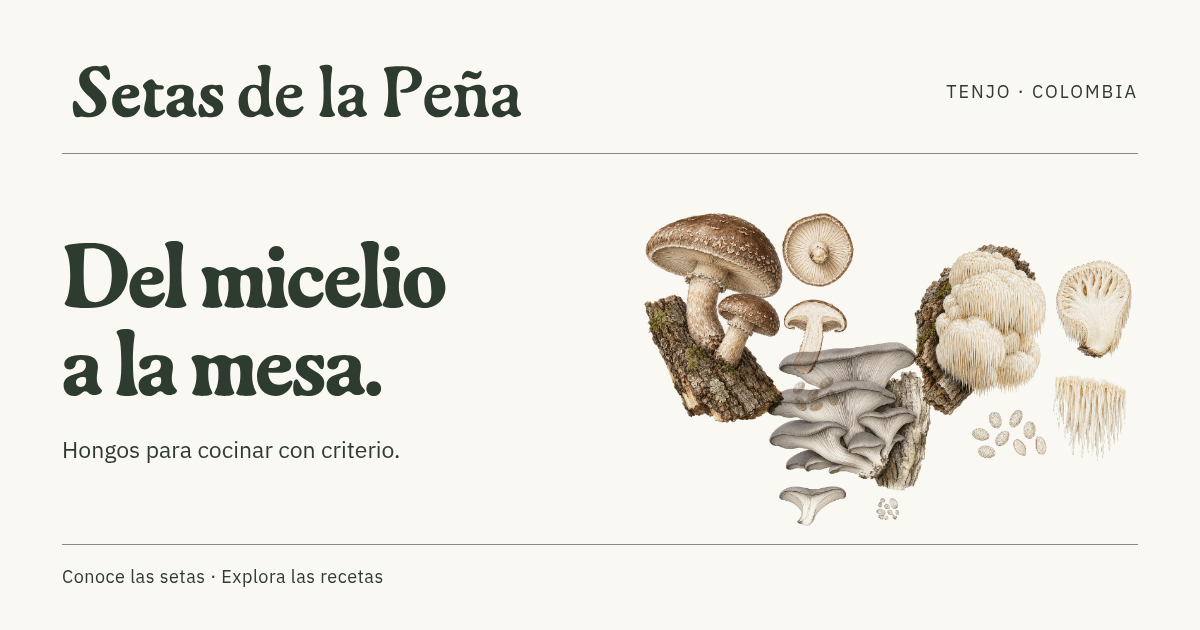
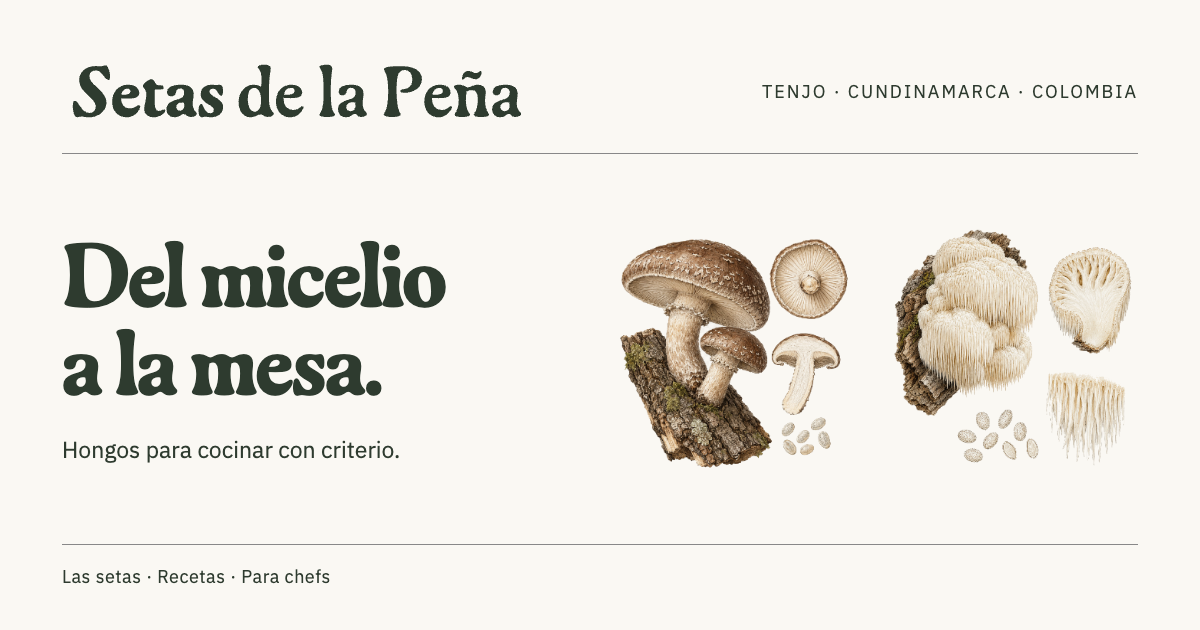
feat(web): titular «Del micelio a la mesa» y ajustes de marca en la portada
- H1 de la portada: «Del micelio a la mesa.»; la línea superior pasa al
  descriptor para no repetir el titular.
- Firma móvil a clamp(28px, 7.6vw, 30px): 186 px a 320 px, sobre el mínimo de
  180 px.
- Franja ocre con --sand-500 en lugar de --warning (token de estado).
- Imagen social: dos láminas separadas de especies de la web, sin orellana;
  pie sin imperativos.
- manual.html sin tuteo; prueba y registro de la web actualizados.

Verificado: check_public_website (55), check_public_export (56),
check_public_delivery (35), validate.py de DS-2026.

diff --git a/manual.html b/manual.html
@@ -1,4 +1,4 @@
 <!doctype html>
 <html lang="es" data-mode="archive"><head><meta charset="utf-8"><meta name="viewport" content="width=device-width, initial-scale=1"><meta name="robots" content="noindex"><title>Manual de marca · Setas de la Peña</title><link rel="stylesheet" href="08_brand/ds-2026/market.css"><link rel="stylesheet" href="website.css"></head>
 <body><a class="skip-link sdp-btn" href="#contenido">Saltar al contenido</a><header class="masthead page-width"><a class="wordmark" href="index.html">Setas <span>de la Peña</span></a><nav aria-label="Navegación principal"><a href="index.html">Web pública</a><a href="design-system.html">Sistema de diseño</a></nav></header>
-<main id="contenido" class="page-width"><section class="collection" aria-labelledby="manual-title"><p class="t-label">Marca · Guía para la web pública</p><h1 id="manual-title" class="t-species">Hongos para cocinar con criterio.</h1><p><a class="sdp-btn sdp-btn--primary" href="08_brand/ds-2026/brand-kit/index.html" data-canonical-resource="manual">Abrir el manual de marca completo ↗</a></p><p>Consulta las firmas descargables, los referentes y las aplicaciones en el kit canónico. Esta página ofrece un resumen para la web.</p><p>Del micelio a la mesa.</p><p>Conoce la seta. Imagina el plato.</p><div class="profile-columns"><article><h2 class="t-species">Tipografía y color</h2><p>Gaya para titulares y nombres de especies. IBM Plex Sans para lectura e interfaz. IBM Plex Mono para cantidades y metadatos breves.</p><p>Usa los tokens de <code>market.css</code>: papel cálido, tinta, musgo y acentos de tierra. Conserva contraste, foco visible y controles de al menos 44 px.</p><p>La licencia comercial de Gaya está pendiente de verificación.</p></article><article><h2 class="t-species">Imagen y voz</h2><p>Grabados micológicos para especies; gouache con lápiz para preparaciones. Rotula las ilustraciones. La fotografía debe documentar el producto o proceso real.</p><p>Tono cercano, preciso, culinario y útil. Explica sabor, textura y preparación antes del detalle científico.</p><p>Tenjo, Cundinamarca es el origen del proyecto. La procedencia de una cosecha requiere registros de lote.</p></article></div><div class="source-note"><h2 class="t-species">Comunicación comercial</h2><p>Publica únicamente disponibilidad, presentaciones, precios y entrega confirmados. Una consulta prepara un mensaje: no cobra ni reserva inventario.</p><p>Las tres recetas son adaptaciones pendientes de prueba en cocina; conserva fuentes y avisos.</p><p class="t-small">Esta guía resume las decisiones aprobadas para la web y el README del DS-2026. No acredita una licencia tipográfica ni valida un lote.</p></div></section></main></body></html>
+<main id="contenido" class="page-width"><section class="collection" aria-labelledby="manual-title"><p class="t-label">Marca · Guía para la web pública</p><h1 id="manual-title" class="t-species">Hongos para cocinar con criterio.</h1><p><a class="sdp-btn sdp-btn--primary" href="08_brand/ds-2026/brand-kit/index.html" data-canonical-resource="manual">Abrir el manual de marca completo ↗</a></p><p>Consulta las firmas descargables, los referentes y las aplicaciones en el kit canónico. Esta página ofrece un resumen para la web.</p><p>Del micelio a la mesa.</p><p>Conocer la seta. Imaginar el plato.</p><div class="profile-columns"><article><h2 class="t-species">Tipografía y color</h2><p>Gaya para titulares y nombres de especies. IBM Plex Sans para lectura e interfaz. IBM Plex Mono para cantidades y metadatos breves.</p><p>Usa los tokens de <code>market.css</code>: papel cálido, tinta, musgo y acentos de tierra. Conserva contraste, foco visible y controles de al menos 44 px.</p><p>La licencia comercial de Gaya está pendiente de verificación.</p></article><article><h2 class="t-species">Imagen y voz</h2><p>Grabados micológicos para especies; gouache con lápiz para preparaciones. Rotula las ilustraciones. La fotografía debe documentar el producto o proceso real.</p><p>Tono cercano, preciso, culinario y útil. Explica sabor, textura y preparación antes del detalle científico.</p><p>Tenjo, Cundinamarca es el origen del proyecto. La procedencia de una cosecha requiere registros de lote.</p></article></div><div class="source-note"><h2 class="t-species">Comunicación comercial</h2><p>Publica únicamente disponibilidad, presentaciones, precios y entrega confirmados. Una consulta prepara un mensaje: no cobra ni reserva inventario.</p><p>Las tres recetas son adaptaciones pendientes de prueba en cocina; conserva fuentes y avisos.</p><p class="t-small">Esta guía resume las decisiones aprobadas para la web y el README del DS-2026. No acredita una licencia tipográfica ni valida un lote.</p></div></section></main></body></html>

diff --git a/assets/social/card.html b/assets/social/card.html
@@ -8,10 +8,9 @@ header { border-bottom:1px solid #888; padding-bottom:25px; display:flex; justif
 header img { width:470px; height:74px; } header span { font-size:18px; letter-spacing:2px; }
 main { display:grid; grid-template-columns:1.05fr 1fr; align-items:center; height:390px; gap:24px; }
 h1 { font:700 84px/1.05 Gaya,serif; margin:0 0 24px; letter-spacing:-2px; } p { font-size:23px; max-width:460px; line-height:1.4; margin:0; }
-.illustrations { display:flex; align-items:center; position:relative; height:350px; } .illustrations img { object-fit:contain; mix-blend-mode:multiply; width:230px; height:280px; position:absolute; }
-.illustrations img:nth-child(1) { left:10px; top:0; } .illustrations img:nth-child(2) { right:0; top:40px; } .illustrations img:nth-child(3) { left:100px; bottom:-14px; width:250px; height:210px; }
+.illustrations { display:flex; align-items:center; justify-content:space-between; gap:28px; height:350px; } .illustrations img { object-fit:contain; mix-blend-mode:multiply; width:250px; height:300px; }
 footer { border-top:1px solid #888; padding-top:20px; font-size:18px; letter-spacing:.5px; }
 </style>
-<header><img src="../../08_brand/ds-2026/brand-kit/assets/wordmark-horizontal-moss.svg" alt="Setas de la Peña"><span>TENJO · COLOMBIA</span></header>
-<main><div><h1>Del micelio<br>a la mesa.</h1><p>Hongos para cocinar con criterio.</p></div><div class="illustrations"><img src="../../08_brand/ds-2026/assets/img/species/shiitake.png" alt="Shiitake"><img src="../../08_brand/ds-2026/assets/img/species/lions-mane.png" alt="Melena de león"><img src="../../08_brand/ds-2026/assets/img/species/grey-mushroom.png" alt="Orellana"></div></main>
-<footer>Conoce las setas · Explora las recetas</footer></html>
+<header><img src="../../08_brand/ds-2026/brand-kit/assets/wordmark-horizontal-moss.svg" alt="Setas de la Peña"><span>TENJO · CUNDINAMARCA · COLOMBIA</span></header>
+<main><div><h1>Del micelio<br>a la mesa.</h1><p>Hongos para cocinar con criterio.</p></div><div class="illustrations"><img src="../../08_brand/ds-2026/assets/img/species/shiitake.png" alt="Shiitake"><img src="../../08_brand/ds-2026/assets/img/species/lions-mane.png" alt="Melena de león"></div></main>
+<footer>Las setas · Recetas · Para chefs</footer></html>

diff --git a/index.html b/index.html
@@ -31,7 +31,7 @@
 </head>
 <body class="home-page">
   <a class="skip-link sdp-btn" href="#contenido">Saltar al contenido</a>
-  <div class="location-line t-label"><span>Tenjo · Cundinamarca · Colombia</span><span>Del micelio a la mesa.</span></div>
+  <div class="location-line t-label"><span>Tenjo · Cundinamarca · Colombia</span><span>Hongos para cocinar con criterio.</span></div>
   <header class="masthead page-width">
     <a class="wordmark" href="#inicio" aria-label="Setas de la Peña, inicio">Setas <span>de la Peña</span></a>
     <button class="menu-toggle" type="button" aria-expanded="false" aria-controls="primary-nav" hidden>Menú <span aria-hidden="true">+</span></button>
@@ -42,7 +42,7 @@
       <figure class="catalog-landscape">
         <img src="assets/la-pena-paisaje.webp" alt="Dibujo a lápiz de una peña de roca en columnas sobre laderas con árboles" width="1024" height="680" fetchpriority="high">
       </figure>
-      <h1 id="hero-title"><span class="franja franja--coral">Cultivo en sombra.</span></h1>
+      <h1 id="hero-title"><span class="franja franja--coral">Del micelio a la mesa.</span></h1>
       <p class="catalog-descriptor">Shiitake, melena de león y eryngii, desde Tenjo, Cundinamarca.</p>
     </section>
 

diff --git a/website.css b/website.css
@@ -510,7 +510,7 @@ a:focus-visible, button:focus-visible, input:focus-visible, textarea:focus-visib
 }
 @media (max-width: 650px) {
   :is(.home-page, .species-page, .recipes-page) .masthead { flex-direction: row; align-items: center; gap: 12px; padding-block: 16px; }
-  :is(.home-page, .species-page, .recipes-page) .masthead .wordmark { font-size: clamp(24px, 6.7vw, 30px); gap: 5px; }
+  :is(.home-page, .species-page, .recipes-page) .masthead .wordmark { font-size: clamp(28px, 7.6vw, 30px); gap: 5px; } /* keeps the horizontal signature at its 180 px minimum */
   :is(.home-page, .species-page, .recipes-page) .masthead nav { flex-basis: 100%; display: grid; grid-template-columns: 1fr 1fr; gap: 4px 16px; border-top: var(--rule-hairline); padding-top: 12px; }
   :is(.home-page, .species-page, .recipes-page) .masthead nav a { padding: 8px 12px; }
   :is(.home-page, .species-page, .recipes-page) .masthead nav .nav-inquiry { grid-column: 1 / -1; justify-content: space-between; margin-top: 4px; }

diff --git a/color-bands.css b/color-bands.css
@@ -11,7 +11,7 @@
 }
 .franja--coral { --franja-color: var(--coral-500); }
 .franja--musgo { --franja-color: var(--moss-500); }
-.franja--ocre { --franja-color: var(--warning); }
+.franja--ocre { --franja-color: var(--sand-500); }
 .franja--pizarra { --franja-color: var(--slate-500); }
 
 @media (forced-colors: active) {

diff --git a/docs/public-website.md b/docs/public-website.md
@@ -119,6 +119,10 @@ Titular del Home (25 de octubre de 2026): «Cultivo en sombra.» pasa a titular 
 
 Ajuste del 26 de octubre de 2026: el descriptor bajo el titular pasa a «Shiitake, melena de león y eryngii, desde Tenjo, Cundinamarca.» para que la portada diga qué se ofrece y desde dónde (hallazgo de la auditoría de marca). «Cultivo en sombra.» sigue como titular. «Hongos para cocinar con criterio.» se conserva como descriptor de marca en metadatos y manual. Se escribe «desde Tenjo» y no «cultivados en Tenjo» porque la procedencia de una cosecha requiere registros de lote.
 
+Titular del Home (27 de octubre de 2026): el titular pasa de «Cultivo en sombra.» a «Del micelio a la mesa.», la frase principal decidida por el fundador; «Hongos para cocinar con criterio.» sigue como descriptor en metadatos y manual. La portada, el título de la página y la guía de voz v2.3 usan ya la misma frase. «Cultivo en sombra» queda como descriptor del método.
+
+Ajustes de marca del 27 de octubre de 2026 (revisión de marca): la línea superior del Home pasa a «Hongos para cocinar con criterio.» para no repetir el titular; las fichas de especie la conservan. La firma de la cabecera móvil sube a `clamp(28px, 7.6vw, 30px)` y mide 186 px a 320 px de ancho, sobre el mínimo de 180 px. La franja `ocre` usa `--sand-500` en lugar de `--warning`, que queda para estados. La imagen social (`assets/social/card.html`) muestra dos láminas separadas de especies de la web (shiitake y melena de león), sin orellana, con pie «Las setas · Recetas · Para chefs» sin imperativos; se regenera con `node scripts/render_public_social.cjs`.
+
 Ajuste solicitado del Home: se elimina la sección «05 · Antes de consultar» (`#consultas`) y el enlace «Preguntas sobre tu consulta» del pie. Se conservan el pie de marca, las referencias culinarias y los accesos a la ficha de shiitake.
 
 ## Cuaderno editorial de especies
